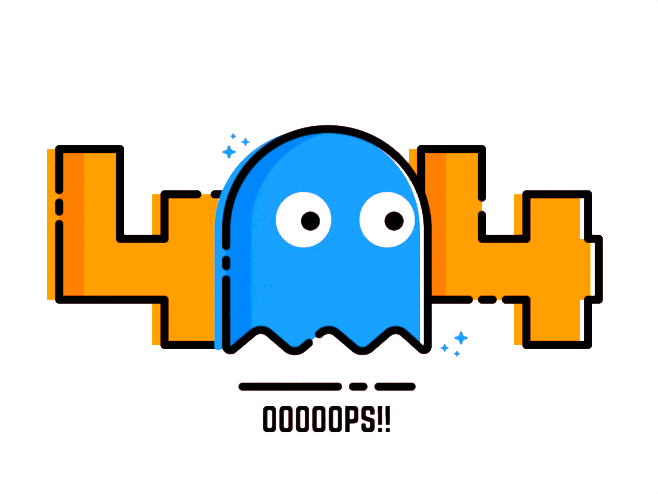
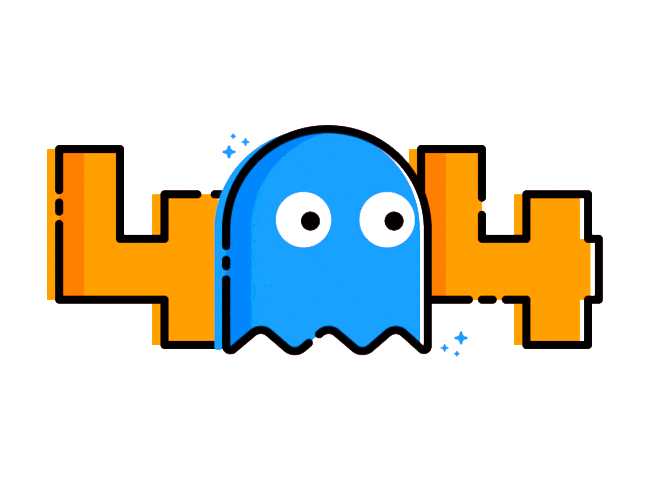
style: redesign da pagina error versão 1.1

Changed region(s): [[0.3951, 0.8198, 0.6079, 0.8806], [0.3647, 0.7591, 0.6383, 0.7895]]

diff --git a/error/error.css b/error/error.css
@@ -10,22 +10,35 @@ main {
 }
 
 body {
-    background-image: linear-gradient(#2E2689, #332E62);
-    position: relative;
-}
-
-.erro-404 img {
-    width: 800px;
-    height: 800px;
-    opacity: 0.5;
-    
+    background-image: linear-gradient(#332E62, #39289F);
 }
 
 .erro-404 {
     margin-inline: auto;
     text-align: center;
     max-width: 1046px;
+    margin-top: 300px;
+    margin-bottom: 300px;
 }
+
+h1 {
+    color: #08042F;
+    font-size: 300px;
+    margin: 0;
+}
+
+#sorry-message {
+    font-size: 30px;
+    margin: 0;
+}
+
+#back-home {
+    font-size: 25px;
+    margin-top: 50px;
+    text-decoration: underline;
+}
+
+
 
 
 

diff --git a/error/error.html b/error/error.html
@@ -22,7 +22,10 @@
 
     <main>
       <div class="erro-404">
-        <img src="img-error/404-pagenotfound.png" alt="404-lanterna">
+        
+        <img src="img-error/samurai-404.png" alt="">
+        <p id="sorry-message">Sorry, we got a problem with this page...</p>
+        <a href="/home/index.html"><p id="back-home"> BACK TO HOME.</p></a>
       </div>
     </main>
 
